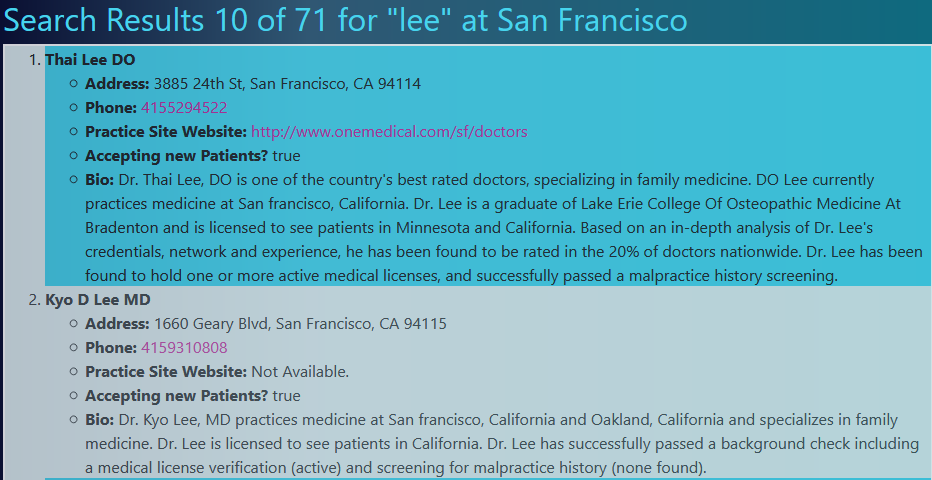
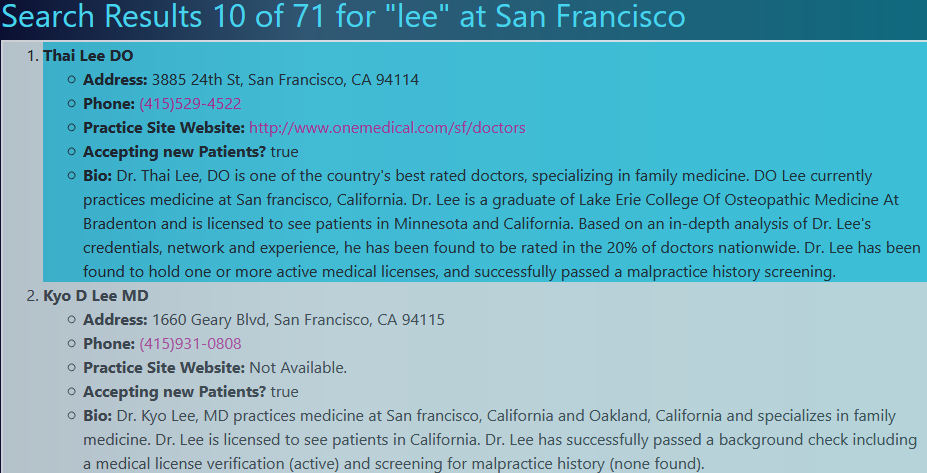
add response status check, phone number formatting, edit output snippet

Changed region(s): [[0.0, 0.0, 1.0, 1.0]]

diff --git a/src/lookup.js b/src/lookup.js
@@ -3,8 +3,14 @@ export class Lookup{
   async getCoordinates(location){
     try{
       let response = await fetch(`https://api.opencagedata.com/geocode/v1/json?q=${location}&key=${process.env.GEOCODE_API_KEY}`);
-      let jsonifiedResponse = await response.json();
-      return jsonifiedResponse;
+      let jsonifiedResponse;
+      if (response.ok && response.status == 200){
+        jsonifiedResponse = await response.json();
+        return jsonifiedResponse;
+      } else {
+        jsonifiedResponse = false;
+      }
+      
     } catch(error){
       console.error("Error handling request: " + error.message);
       alert("Error handling request: " + error.message);
@@ -14,8 +20,13 @@ export class Lookup{
   async getDoctors(location, name, issue){
     try{
       let response = await fetch(`https://api.betterdoctor.com/2016-03-01/doctors?name=${name}&query=${issue}&location=${location}&user_location=37.773%2C-122.413&skip=0&limit=10&user_key=${process.env.API_KEY}`);
-      let jsonifiedResponse = await response.json();
-      return jsonifiedResponse;
+      let jsonifiedResponse;
+      if (response.ok && response.status == 200){
+        jsonifiedResponse = await response.json();
+        return jsonifiedResponse;
+      } else {
+        jsonifiedResponse = false;
+      }
     } catch(error){
       console.error("Error handling request: " + error.message);
       alert("Error handling request: " + error.message);

diff --git a/src/main.js b/src/main.js
@@ -72,7 +72,8 @@ $(document).ready(function(){
       let fullAddress = response.data[i].practices[0].visit_address.street + ", " + response.data[i].practices[0].visit_address.city + ", " + response.data[i].practices[0].visit_address.state + " " + response.data[i].practices[0].visit_address.zip;
       $(`#profile${i}`).append(`<li><strong>Address:</strong> ${fullAddress}</li>`);
 
-      $(`#profile${i}`).append(`<li><strong>Phone:</strong> <a href="tel:${response.data[i].practices[0].phones[0].number}">${response.data[i].practices[0].phones[0].number}</a></li>`);
+      
+      $(`#profile${i}`).append(`<li><strong>Phone:</strong> <a href="tel:${response.data[i].practices[0].phones[0].number}">${formatNumber(response.data[i].practices[0].phones[0].number)}</a></li>`);
 
       let website = "Not Available.";
       if(response.data[i].practices[0].website != undefined){
@@ -89,6 +90,13 @@ $(document).ready(function(){
         bio = response.data[i].profile.bio;
       }
       $(`#profile${i}`).append(`<li><strong>Bio:</strong> ${bio}</li>`);
+    }
+
+    function formatNumber(phoneNum){
+      let area = phoneNum.slice(0,3);
+      let first = phoneNum.slice(3,6);
+      let end = phoneNum.slice(6);
+      return "(" + area + ")" + first + "-" + end;
     }
 
   });
